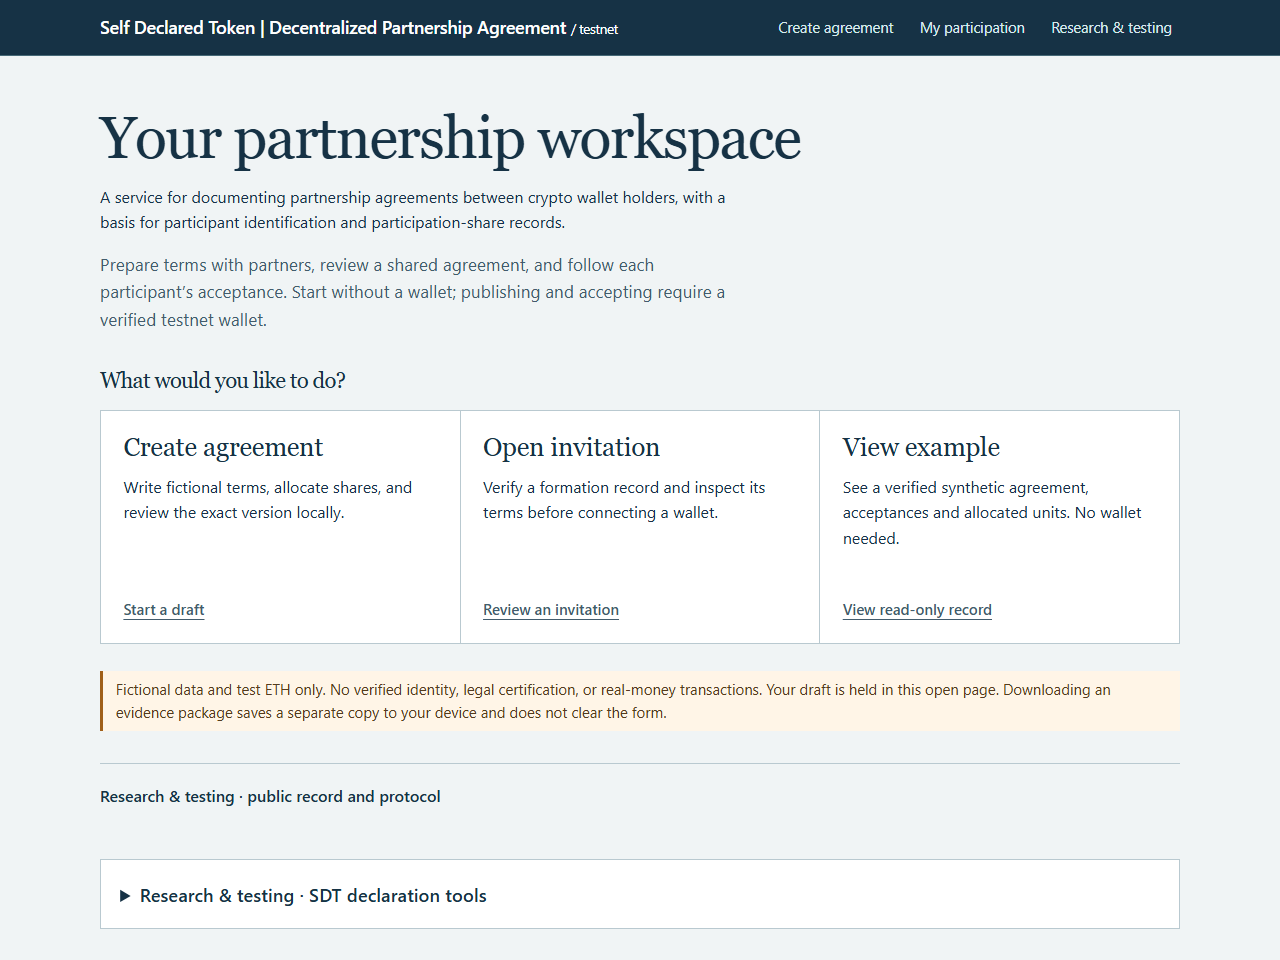
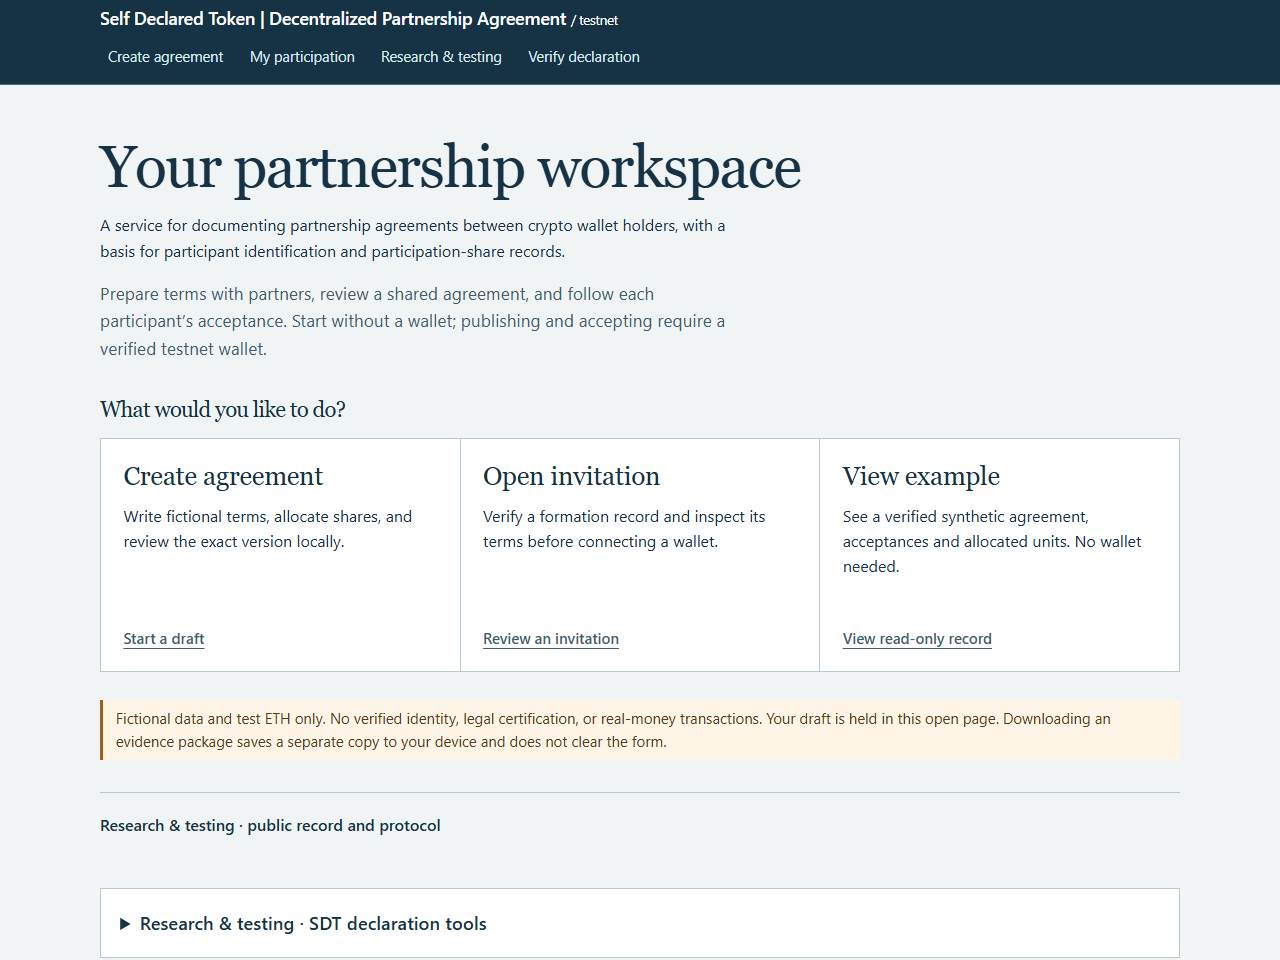
docs: align README with historical declaration verifier and privacy scope

diff --git a/README.md b/README.md
@@ -9,7 +9,7 @@
 ![Hosting](https://img.shields.io/badge/Hosting-GitHub_Pages-222222?style=for-the-badge&logo=githubpages&logoColor=white)
 ![Content license](https://img.shields.io/badge/Site_content-CC_BY_4.0-lightgrey?style=for-the-badge&logo=creativecommons&logoColor=white)
 
-**Synthetic-only Base Sepolia research prototype for DPA and SDT**
+**Base Sepolia research prototype: synthetic-only creation and read-only historical declaration comparison**
 
 [Open Self Declared Token | Decentralized Partnership Agreement](https://maximosovsky.github.io/Decentralized-Partnership-Agreements-DPA-Self-Declared-Tokens-SDT/) · [View the public example](https://maximosovsky.github.io/Decentralized-Partnership-Agreements-DPA-Self-Declared-Tokens-SDT/dpa.html?example=1)
 
@@ -24,7 +24,7 @@
 </div>
 
 > [!WARNING]
-> Fictional data and test ETH only. Never enter real identity or banking data, private keys or seed phrases. This is not identity verification, legal certification or a real-money service. A public hash is not encryption and does not preserve the original document.
+> Creation, minting and agreement workflows are synthetic-only: use fictional data and test ETH. The separate read-only verifier can locally process voluntarily disclosed original identity/bank identifiers; those strings stay in the browser tab unless explicitly exported. Never provide private keys or seed phrases. No page establishes verified identity, legal certification or enforceable rights. A public unsalted hash is not encryption and may enable guessing.
 
 ---
 
@@ -34,7 +34,7 @@
 
 | Record | Purpose | Boundary |
 |---|---|---|
-| **SDT — Self-Declared Token** | Link a wallet to a declaration digest. | No independent identity or bank verification; not a unique-person certificate. |
+| **SDT — Self-Declared Token** | Link a wallet to a digest of self-declared passport details and bank-trace fields. | No independent identity or bank verification; not a unique-person certificate. |
 | **DPA — Decentralized Partnership Agreement** | Record the version and hash of separate off-chain terms, participant wallets, allocations and individual acceptances. | A record of assent does not itself establish attribution or legal enforceability. |
 
 This repository contains **compiled public website files only**. Application source and development history remain in a separate private repository. Publication is manual: editing this repository does **not** rebuild the application.
@@ -50,6 +50,8 @@ This repository contains **compiled public website files only**. Application sou
 | Read-only public example | Review a synthetic agreement and acceptance records without a wallet. |
 | SDT declaration tools | Compute a digest locally using the predefined synthetic test fields. |
 | Testnet participation | Wallet-based deployment, acceptance and unit-claim workflows, subject to chain and contract checks. |
+| Historical declaration comparison | Read-only, wallet-free comparison of all 13 exact original fields against the declaration snapshot recorded at acceptance. |
+| Technical reports | Download JSON or printable HTML; original identity/bank strings are excluded by default and require explicit confirmation to include. |
 | Evidence export | Download a separate local evidence copy; keep the exact off-chain text independently. |
 | Research experiments | Separate share-sale and collateral/loan experiments; no sale or loan occurred in the public pilot. |
 | Public notices | Privacy, terms of use and operator contact pages. |
@@ -67,11 +69,25 @@ The archived document is included exactly as used by the read-only example. Its 
 
 </details>
 
+<details>
+<summary>🔍 Historical declaration verifier: scope and privacy</summary>
+
+[Open the verifier](https://maximosovsky.github.io/Decentralized-Partnership-Agreements-DPA-Self-Declared-Tokens-SDT/verify.html). No wallet connection, signing or transactions are required. Supply the DPA or DPAFormation address, acceptance wallet, optional acceptance transaction hash and **all 13 exact original declaration fields**.
+
+The current-format SHA-256 digest is compared with the snapshot stored at acceptance, not a present-day SDT record. Burning a token or later changes do not replace that historical snapshot. Contract provenance, receipt/event context and recovered signer are checked; unavailable RPC evidence yields an inconclusive result, not a positive conclusion.
+
+- **Current 13-field format only:** no format selector or automatic four-field fallback. An older snapshot produced by another method shows a mismatch, not a claimed match. The on-chain `bytes32` snapshot does not identify the hashing method.
+- **Exact strings:** no trimming, case conversion, Unicode normalization or silent date/amount/time correction. Birth date must be a valid `DD.MM.YYYY` calendar date.
+- **Privacy:** original strings are processed in the open tab; only public wallet/contract addresses and an optional transaction hash are sent to the selected RPC. JSON and printable HTML omit original strings by default. Including them requires a separate checkbox and confirmation for each export.
+- **Interpretation:** a match is technical correspondence, not verification of identity, a banking operation, legal rights or court admissibility. Documentary linkage and representative authority require separate evidence. No special SDT payment is required; the bank transaction identifier may refer to an operation documentally connected with the participant.
+
+</details>
+
 ---
 
 ## 🚀 Quick Start
 
-**No installation or wallet is needed** to browse the [live site](https://maximosovsky.github.io/Decentralized-Partnership-Agreements-DPA-Self-Declared-Tokens-SDT/) or its [read-only example](https://maximosovsky.github.io/Decentralized-Partnership-Agreements-DPA-Self-Declared-Tokens-SDT/dpa.html?example=1).
+**No installation or wallet is needed** to browse the [live site](https://maximosovsky.github.io/Decentralized-Partnership-Agreements-DPA-Self-Declared-Tokens-SDT/) or its [read-only example](https://maximosovsky.github.io/Decentralized-Partnership-Agreements-DPA-Self-Declared-Tokens-SDT/dpa.html?example=1). The [historical declaration verifier](https://maximosovsky.github.io/Decentralized-Partnership-Agreements-DPA-Self-Declared-Tokens-SDT/verify.html) also works without a wallet connection.
 
 To serve the compiled snapshot locally, with Git and Python 3 installed:
 
@@ -115,6 +131,7 @@ Decentralized-Partnership-Agreements-DPA-Self-Declared-Tokens-SDT/
 |-- dpa.html                       # Drafting, invitation review and example
 |-- shares.html                    # Participation interface
 |-- sale.html                      # Research and testing interface
+|-- verify.html                    # Read-only 13-field historical comparison
 |-- privacy.html                   # Privacy notice
 |-- terms.html                     # Terms of use
 |-- contact.html                   # Operator contact
@@ -135,6 +152,7 @@ Decentralized-Partnership-Agreements-DPA-Self-Declared-Tokens-SDT/
 - [x] Expose drafting, invitation review and participation entry points.
 - [x] Include public privacy, terms and contact notices.
 - [x] Document the snapshot and provide LLM discovery files.
+- [x] Publish a wallet-free, current-format historical declaration verifier with privacy-controlled report export.
 
 No future delivery schedule is asserted here. Automatic source synchronization and the research's separate pre-authenticated identity route are **not implemented** in this public repository.
 
